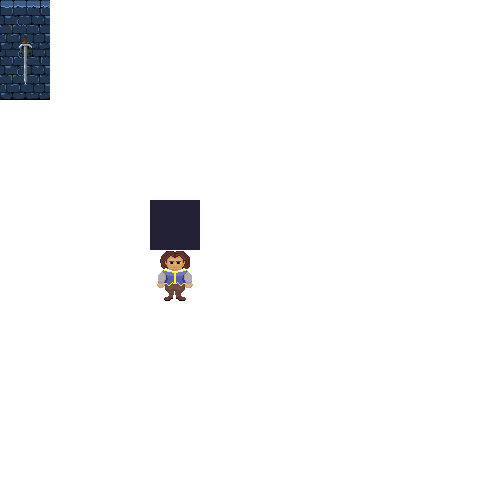
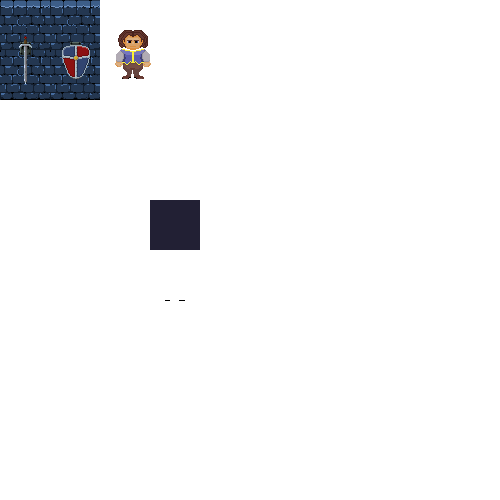
dungeon art: shield on wall

Changed region(s): [[0.09, 0.0, 0.3, 0.21], [0.3, 0.48, 0.39, 0.6]]

diff --git a/js/World.js b/js/World.js
@@ -9,8 +9,8 @@ var roomGrid =
   11,31,31,36,31, 0, 0, 0, 4,31,31,36,31,31,31,31,15, 0, 0, 0, 0, 0, 0, 0, 0, 0, 0, 0, 0, 0, 0, 0, 0, 0, 0, 0, 0, 0, 0, 0, 0, 0, 0, 0, 0, 0, 0, 0, 0, 0, 0, 0, 0, 0, 0, 0, 0, 0, 0, 0, 0, 0, 0, 9,
   11,32,32,37,32, 0, 0, 0, 0,32,32,37,32,32,32,32,15, 0, 0, 0, 0, 0, 0, 0, 0, 0, 0, 0, 0, 0, 0, 0, 0, 0, 0, 0, 0, 0, 0, 0, 0, 0, 0, 0, 0, 0, 0, 0, 0, 0, 0, 0, 0, 0, 0, 0, 0, 0, 0, 0, 0, 0, 0, 9,
   11,40, 0, 0, 0, 0, 0, 0, 0, 0, 0, 0, 0, 0, 0, 0,53, 0, 0, 0, 0, 0, 0, 0, 0, 0, 0, 0, 0, 0, 0, 9, 0, 0, 0, 0, 0, 0, 0, 0, 0, 0, 0, 0, 0, 0, 0, 0, 0, 0, 0, 0, 0, 0, 0, 0, 0, 0, 0, 0, 0, 0, 0, 9,
-  11,41,43,44, 1, 1,55,24, 1,43,44,16, 1, 1, 1, 1, 1, 0, 0, 0, 0, 0, 0, 0, 0, 0, 0, 0, 0, 0, 0, 9, 0, 0, 0, 0, 0, 0, 0, 0, 0, 0, 0, 0, 0, 0, 0, 0, 0, 0, 0, 0, 0, 0, 0, 0, 0, 0, 0, 0, 0, 0, 0, 9,
-  11,42,49,50,47,23,56,25,23,49,50,15,23,23,23,23,23, 0, 0, 0, 0, 0, 0, 0, 0, 0, 0, 0, 0, 0, 0, 9, 0, 0, 0, 0, 0, 0, 0, 0, 0, 0, 0, 0, 0, 0, 0, 0, 0, 0, 0, 0, 0, 0, 0, 0, 0, 0, 0, 0, 0, 0, 0, 9,
+  11,41,43,44, 1, 1,55,24,57,43,44,16, 1, 1, 1, 1, 1, 0, 0, 0, 0, 0, 0, 0, 0, 0, 0, 0, 0, 0, 0, 9, 0, 0, 0, 0, 0, 0, 0, 0, 0, 0, 0, 0, 0, 0, 0, 0, 0, 0, 0, 0, 0, 0, 0, 0, 0, 0, 0, 0, 0, 0, 0, 9,
+  11,42,49,50,47,23,56,25,58,49,50,15,23,23,23,23,23, 0, 0, 0, 0, 0, 0, 0, 0, 0, 0, 0, 0, 0, 0, 9, 0, 0, 0, 0, 0, 0, 0, 0, 0, 0, 0, 0, 0, 0, 0, 0, 0, 0, 0, 0, 0, 0, 0, 0, 0, 0, 0, 0, 0, 0, 0, 9,
   11, 0,45,46,48,51, 0, 0, 0,46,46,15, 0, 0, 0, 0, 0, 0, 0, 0, 0, 0, 0, 0, 0, 0, 0, 0, 0, 0, 0, 9, 0, 0, 0, 0, 0, 0, 0, 0, 0, 0, 0, 0, 0, 0, 0, 0, 0, 0, 0, 0, 0, 0, 0, 0, 0, 0, 0, 0, 0, 0, 0, 9,
   11, 0, 0, 0, 0, 0, 0, 0, 0, 0, 0,15, 0, 0, 0, 0, 0, 0, 0, 0, 0, 0, 0, 0, 0, 0, 0, 0, 0, 0, 0, 9, 0, 0, 0, 0, 0, 0, 0, 0, 0, 0, 0, 0, 0, 0, 0, 0, 0, 0, 0, 0, 0, 0, 0, 0, 0, 0, 0, 0, 0, 0, 0, 9,
   11, 0, 0, 0, 0, 0, 0, 0, 0, 0, 0,15, 0, 0, 0, 0, 0, 0, 0, 0, 0, 0, 0, 0, 0, 0, 0, 0, 0, 0, 0, 9, 0, 0, 0, 0, 0, 0, 0, 0, 0, 0, 0, 0, 0, 0, 0, 0, 0, 0, 0, 0, 0, 0, 0, 0, 0, 0, 0, 0, 0, 0, 0, 9,
@@ -101,6 +101,8 @@ const TILE_DOOR_YELLOW_SIDE_CLOSED = 53;
 const TILE_DOOR_YELLOW_SIDE_OPEN = 54;
 const TILE_DUNGEON_ART_1_TOP = 55;
 const TILE_DUNGEON_ART_1_BOTTOM = 56;
+const TILE_DUNGEON_ART_2_TOP = 57;
+const TILE_DUNGEON_ART_2_BOTTOM = 58;
 
 
 function roomTileToIndex(tileCol, tileRow) {

diff --git a/js/ImageLoading.js b/js/ImageLoading.js
@@ -92,6 +92,8 @@ function loadImages() {
     // dungeon art
     {tileType:TILE_DUNGEON_ART_1_TOP, imgX: 0, imgY: 0, theFile:"dungeonArt.png"},
     {tileType:TILE_DUNGEON_ART_1_BOTTOM, imgX: 0, imgY: 50, theFile:"dungeonArt.png"},
+    {tileType:TILE_DUNGEON_ART_2_TOP, imgX: 50, imgY: 0, theFile:"dungeonArt.png"},
+    {tileType:TILE_DUNGEON_ART_2_BOTTOM, imgX: 50, imgY: 50, theFile:"dungeonArt.png"},
 
     ];
 
